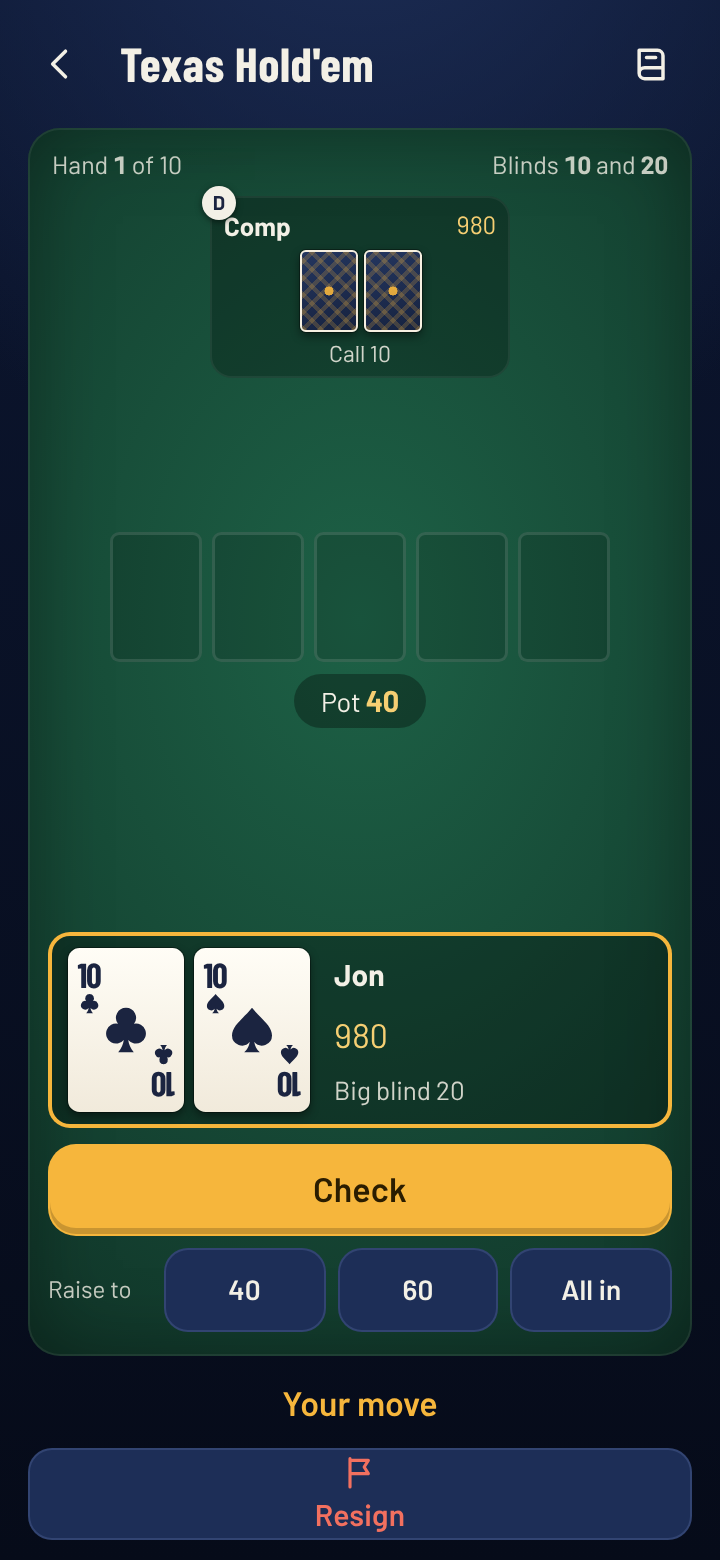
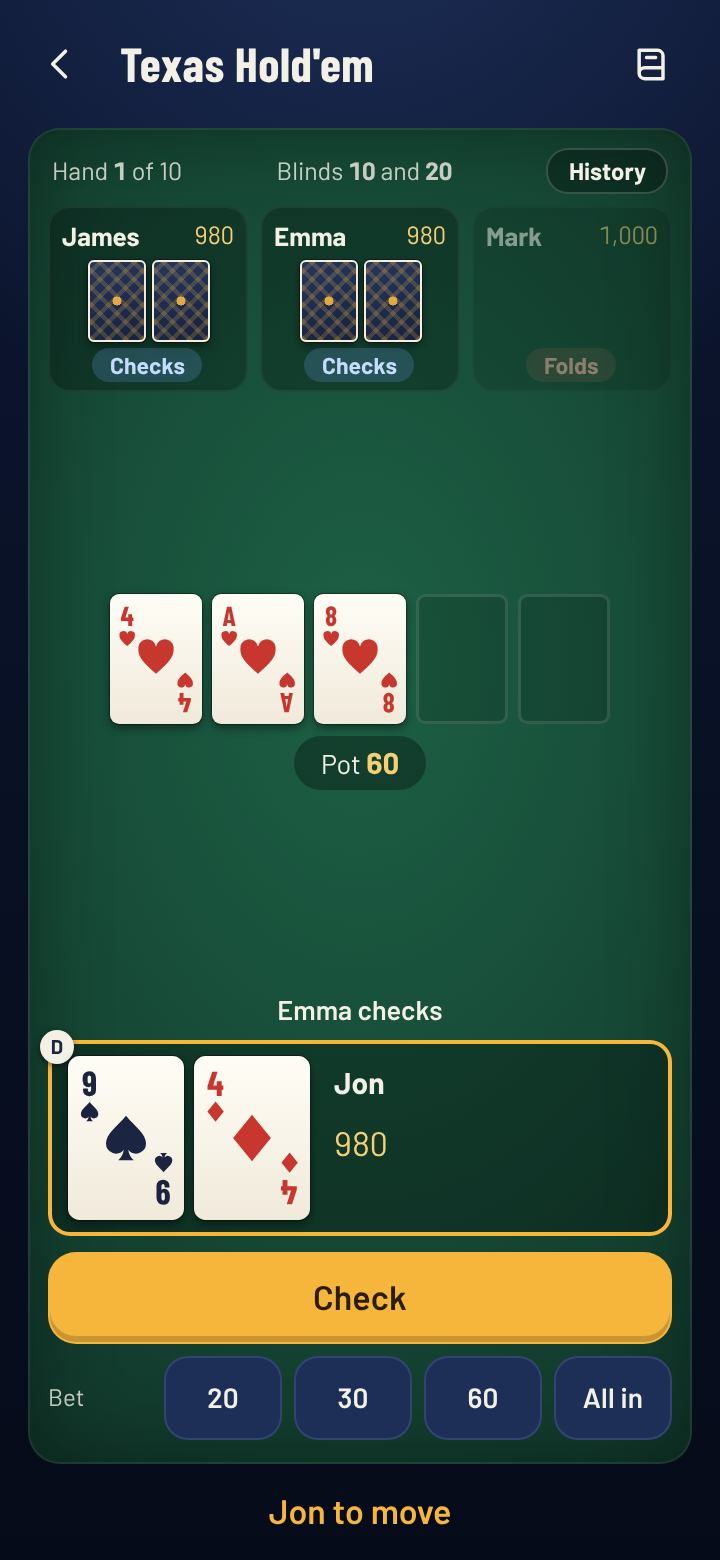
Plane Games 1.2: release notes, home page and new app pictures

diff --git a/index.html b/index.html
@@ -28,8 +28,8 @@
 <link rel="stylesheet" href="./assets/house.css?v=1">
 <link rel="stylesheet" href="./assets/apps-list.css?v=1">
 <script src="./assets/apps-list.js?v=1" defer></script>
-<script type="application/ld+json">{"@context":"https://schema.org","@type":"SoftwareApplication","name":"Plane Games","url":"https://customgpter.github.io/plane-games/","description":"Plane Games is a free Android app with twenty-six games for up to four phones or one, made to work with no internet. Pool, chess, poker, ludo, battleships and more. No adverts.","applicationCategory":"GameApplication","operatingSystem":"Android 8 or later","softwareVersion":"1.1","downloadUrl":"https://github.com/CustomGPTer/plane-games/releases/latest/download/PlaneGames.apk","releaseNotes":"https://customgpter.github.io/plane-games/releases.html","offers":{"@type":"Offer","price":"0","priceCurrency":"GBP"},"inLanguage":"en-GB","image":"https://customgpter.github.io/plane-games/assets/og.png","featureList":["Twenty-six of them","Up to four phones","One phone too","Private cards","No cheating","Head starts and clocks","Tallies","Replays","Continue later","Flight mode","Send the app","Backup"],"author":{"@type":"Person","name":"Jonathan Jackson"}}</script>
-<script type="application/ld+json">{"@context":"https://schema.org","@type":"FAQPage","mainEntity":[{"@type":"Question","name":"Does it really work with no internet?","acceptedAnswer":{"@type":"Answer","text":"Yes. Every game is inside the app. Two phones link straight to each other by Bluetooth and Wi-Fi, without a router, a hotspot or mobile data. The only time the app uses the internet is to look for a newer version, and it carries on quietly if there is none."}},{"@type":"Question","name":"Does it work in flight mode?","acceptedAnswer":{"@type":"Answer","text":"Yes. Switch flight mode on, then switch Bluetooth back on, and Wi-Fi as well if your phone lets you. The link screen shows what is switched off and has a button for each. Games against the computer, games on one phone and the one-player games need nothing switched on at all. Always follow the cabin crew's instructions about phones."}},{"@type":"Question","name":"Do both of us need the app?","acceptedAnswer":{"@type":"Answer","text":"To play on two phones, yes. If the other person does not have it, open Invite in the app and choose Send the app: it goes from your phone to theirs by Quick Share or Bluetooth, with no internet. You can also play on one phone, passing it between you."}},{"@type":"Question","name":"Can an iPhone join in?","acceptedAnswer":{"@type":"Answer","text":"No. Plane Games is for Android only, and two phones can link only if both run it. An iPhone owner can still play on your phone in pass-and-play."}},{"@type":"Question","name":"How do two phones link?","acceptedAnswer":{"@type":"Answer","text":"Both open Link phones. One taps Host and the other taps Join, then taps the host's name or scans the code on the host's screen. Both phones show the same short number; check it matches and tap Link. Phones that have linked before can skip the number check."}},{"@type":"Question","name":"Why does it ask for Nearby devices, or for Location?","acceptedAnswer":{"@type":"Answer","text":"Android will not let any app find a phone nearby without it. On Android 13 and later the permission is called Nearby devices. On Android 12 and older, Android also asks for Location and needs Location switched on while the phones find each other. Plane Games never reads where you are."}},{"@type":"Question","name":"How far apart can the phones be?","acceptedAnswer":{"@type":"Answer","text":"Keep them within a few seats of each other. Walls, seat backs and people in between shorten the range."}},{"@type":"Question","name":"Is the pool like the one I know?","acceptedAnswer":{"@type":"Answer","text":"It is 9-ball and 8-ball played by touch: drag to aim, set spin on the cue ball, pull the power bar back and let go. 8-ball can be played by UK pub rules, with two shots after a foul, or with ball in hand. The aiming line can be long, short or off."}},{"@type":"Question","name":"Is Plane Games on Google Play?","acceptedAnswer":{"@type":"Answer","text":"No. It is downloaded from this site as an app file. That is why Chrome and Play Protect ask you to confirm when you install it."}},{"@type":"Question","name":"How do I move my tallies to a new phone?","acceptedAnswer":{"@type":"Answer","text":"In Settings choose Save a backup file and send that file to the new phone. There, choose Bring back a backup and pick the file."}},{"@type":"Question","name":"How do I update?","acceptedAnswer":{"@type":"Answer","text":"When there is internet the app looks for a newer version about twice a day and says so on the home screen. Download the new file from this site and open it; it installs over the old one and keeps your tallies. Settings also has Check for a newer version, and a button that copies the link where every version is published."}},{"@type":"Question","name":"Is it really free?","acceptedAnswer":{"@type":"Answer","text":"Yes. There are no adverts, no purchases and no account."}}]}</script>
+<script type="application/ld+json">{"@context":"https://schema.org","@type":"SoftwareApplication","name":"Plane Games","url":"https://customgpter.github.io/plane-games/","description":"Plane Games is a free Android app with twenty-six games for up to four phones or one, made to work with no internet. Pool, chess, poker, ludo, battleships and more. No adverts.","applicationCategory":"GameApplication","operatingSystem":"Android 8 or later","softwareVersion":"1.2","downloadUrl":"https://github.com/CustomGPTer/plane-games/releases/latest/download/PlaneGames.apk","releaseNotes":"https://customgpter.github.io/plane-games/releases.html","offers":{"@type":"Offer","price":"0","priceCurrency":"GBP"},"inLanguage":"en-GB","image":"https://customgpter.github.io/plane-games/assets/og.png","featureList":["Twenty-six of them","Up to four phones","One phone too","Private cards","No cheating","Head starts and clocks","Tallies","Replays","Continue later","Flight mode","Send the app","Backup"],"author":{"@type":"Person","name":"Jonathan Jackson"}}</script>
+<script type="application/ld+json">{"@context":"https://schema.org","@type":"FAQPage","mainEntity":[{"@type":"Question","name":"Does it really work with no internet?","acceptedAnswer":{"@type":"Answer","text":"Yes. Every game is inside the app. Two phones link straight to each other by Bluetooth and Wi-Fi, without a router, a hotspot or mobile data. The only time the app uses the internet is to look for a newer version, and it carries on quietly if there is none."}},{"@type":"Question","name":"Does it work in flight mode?","acceptedAnswer":{"@type":"Answer","text":"Yes. Switch flight mode on, then switch Bluetooth back on, and Wi-Fi as well if your phone lets you. The link screen shows what is switched off and has a button for each. Games against the computer, games on one phone and the one-player games need nothing switched on at all. Always follow the cabin crew's instructions about phones."}},{"@type":"Question","name":"Do both of us need the app?","acceptedAnswer":{"@type":"Answer","text":"To play on two phones, yes. If the other person does not have it, open Invite in the app and choose Send the app: it goes from your phone to theirs by Quick Share or Bluetooth, with no internet. You can also play on one phone, passing it between you."}},{"@type":"Question","name":"Can an iPhone join in?","acceptedAnswer":{"@type":"Answer","text":"No. Plane Games is for Android only, and two phones can link only if both run it. An iPhone owner can still play on your phone in pass-and-play."}},{"@type":"Question","name":"How do two phones link?","acceptedAnswer":{"@type":"Answer","text":"Both open Link phones. One taps Host and the other taps Join, then taps the host's name or scans the code on the host's screen. Both phones show the same short number; check it matches and tap Link. Phones that have linked before can skip the number check."}},{"@type":"Question","name":"Why does it ask for Nearby devices, or for Location?","acceptedAnswer":{"@type":"Answer","text":"Android will not let any app find a phone nearby without it. On Android 13 and later the permission is called Nearby devices. On Android 12 and older, Android also asks for Location and needs Location switched on while the phones find each other. Plane Games never reads where you are."}},{"@type":"Question","name":"How far apart can the phones be?","acceptedAnswer":{"@type":"Answer","text":"Keep them within a few seats of each other. Walls, seat backs and people in between shorten the range."}},{"@type":"Question","name":"Is the pool like the one I know?","acceptedAnswer":{"@type":"Answer","text":"It is 9-ball and 8-ball played by touch: drag to aim, turn the wheel for fine aim, set spin on the cue ball, pull the power bar back and let go. A potted ball drops into the pocket and runs down a rail beside the table. 8-ball can be played by UK pub rules, with two shots after a foul, or with ball in hand. The aiming line can be long, short or off."}},{"@type":"Question","name":"Is Plane Games on Google Play?","acceptedAnswer":{"@type":"Answer","text":"No. It is downloaded from this site as an app file. That is why Chrome and Play Protect ask you to confirm when you install it."}},{"@type":"Question","name":"How do I move my tallies to a new phone?","acceptedAnswer":{"@type":"Answer","text":"In Settings choose Save a backup file and send that file to the new phone. There, choose Bring back a backup and pick the file."}},{"@type":"Question","name":"How do I update?","acceptedAnswer":{"@type":"Answer","text":"When there is internet the app looks for a newer version about twice a day and says so on the home screen. Download the new file from this site and open it; it installs over the old one and keeps your tallies. Settings also has Check for a newer version, and a button that copies the link where every version is published."}},{"@type":"Question","name":"Is it really free?","acceptedAnswer":{"@type":"Answer","text":"Yes. There are no adverts, no purchases and no account."}}]}</script>
 </head>
 <body>
 <a class="skip" href="#main">Skip to content</a>
@@ -48,7 +48,7 @@
 <p class="lede">Plane Games links up to four phones straight to each other by Bluetooth and Wi-Fi, with no internet, no router and no mobile data. Made for flights, trains and anywhere the signal gives up.</p><p class="lede">Play chess, pool, poker, ludo and more against each other, pass one phone round, or take on the computer.</p>
 
 <p class="get" id="download"><a class="button" href="https://github.com/CustomGPTer/plane-games/releases/latest/download/PlaneGames.apk"><svg class="ico" viewBox="0 0 24 24" aria-hidden="true"><path d="M12 4v11"/><path d="M7 10.5l5 5 5-5"/><path d="M5 20h14"/></svg>Download for Android</a><a class="aside" href="#install">How to install</a></p>
-<ul class="pills"><li>Version 1.1</li><li>Android 8 or later</li><li>4.9 MB</li></ul>
+<ul class="pills"><li>Version 1.2</li><li>Android 8 or later</li><li>4.9 MB</li></ul>
 <p class="facts">Free, with nothing to unlock. No adverts, no account with the developer, no tracking. <a href="compare.html">Compare</a> or read the <a href="releases.html">release notes</a>.</p>
 <p class="facts">Chrome may say the file might be harmful. It shows this for app files that do not come from Google Play. Choose Download anyway.</p>
 </div>
@@ -80,7 +80,7 @@
 <div class="wrap">
 <h2 id="features-h">Everything is in, and all of it is free</h2>
 <p class="intro">Nothing below is held back for a paid tier, because there is no paid tier.</p>
-<div class="groups"><div class="group"><h3>The games</h3><dl><div><dt>Twenty-six of them</dt><dd><b>Board:</b> chess, draughts, backgammon, dominoes, battleships, Connect 4, reversi, noughts and crosses, ludo, snakes and ladders, dots and boxes. <b>Cards:</b> Texas Hold'em, three card brag, snap, pontoon, solitaire, FreeCell and spider. <b>Arcade:</b> 9-ball and 8-ball pool. <b>Puzzles:</b> sudoku, minesweeper, 2048, hangman, code breaker and 120 chess puzzles.</dd></div><div><dt>Up to four phones</dt><dd>Ludo, snakes and ladders, dots and boxes, dominoes, Hold'em and brag on up to four phones, two to six seats.</dd></div><div><dt>One phone too</dt><dd>Pass and play on one phone, or play the computer at five levels.</dd></div></dl></div><div class="group"><h3>Fair play</h3><dl><div><dt>Private cards</dt><dd>Your hand and your tiles show only on your phone.</dd></div><div><dt>No cheating</dt><dd>Dice and shuffles are made by every phone together, and fleets and words are checked at the end.</dd></div><div><dt>Head starts and clocks</dt><dd>Give a weaker player a head start, or play against the clock.</dd></div></dl></div><div class="group"><h3>Keeping score</h3><dl><div><dt>Tallies</dt><dd>Won, lost and drawn, for each person you play.</dd></div><div><dt>Replays</dt><dd>Watch the last forty games back, move by move.</dd></div><div><dt>Continue later</dt><dd>A part-played game waits for you, on every phone.</dd></div></dl></div><div class="group"><h3>Made for travel</h3><dl><div><dt>Flight mode</dt><dd>Switch flight mode on, then Bluetooth back on, and you can still play.</dd></div><div><dt>Send the app</dt><dd>Pass the app itself to a friend's phone, phone to phone.</dd></div><div><dt>Backup</dt><dd>Save a file with your tallies and bring it back on a new phone.</dd></div></dl></div></div>
+<div class="groups"><div class="group"><h3>The games</h3><dl><div><dt>Twenty-six of them</dt><dd><b>Board:</b> chess, draughts, backgammon, dominoes, battleships, Connect 4, reversi, noughts and crosses, ludo, snakes and ladders, dots and boxes. <b>Cards:</b> Texas Hold'em, three card brag, snap, pontoon, solitaire, FreeCell and spider. <b>Arcade:</b> 9-ball and 8-ball pool. <b>Puzzles:</b> sudoku, minesweeper, 2048, hangman, code breaker and 120 chess puzzles.</dd></div><div><dt>Up to four phones</dt><dd>Ludo, snakes and ladders, dots and boxes, dominoes, Hold'em and brag on up to four phones, two to six seats.</dd></div><div><dt>One phone too</dt><dd>Pass and play on one phone, or play the computer at five levels, each with its own named players.</dd></div></dl></div><div class="group"><h3>Fair play</h3><dl><div><dt>Private cards</dt><dd>Your hand and your tiles show only on your phone.</dd></div><div><dt>No cheating</dt><dd>Dice and shuffles are made by every phone together, and fleets and words are checked at the end.</dd></div><div><dt>Head starts and clocks</dt><dd>Give a weaker player a head start, or play against the clock.</dd></div></dl></div><div class="group"><h3>Keeping score</h3><dl><div><dt>Tallies</dt><dd>Won, lost and drawn, for each person you play.</dd></div><div><dt>Replays</dt><dd>Watch the last forty games back, move by move.</dd></div><div><dt>Continue later</dt><dd>A part-played game waits for you, on every phone.</dd></div></dl></div><div class="group"><h3>Made for travel</h3><dl><div><dt>Flight mode</dt><dd>Switch flight mode on, then Bluetooth back on, and you can still play.</dd></div><div><dt>Send the app</dt><dd>Pass the app itself to a friend's phone, phone to phone.</dd></div><div><dt>Backup</dt><dd>Save a file with your tallies and bring it back on a new phone.</dd></div></dl></div></div>
 </div>
 </section>
 
@@ -96,14 +96,14 @@
 <h2 id="install-h">Installing and updating</h2>
 <p class="intro">Plane Games is not on Google Play, so your phone asks a couple of extra questions the first time.</p>
 <ol class="steps"><li><h3>Download the app file</h3><p>Tap Download on your phone. The file is called PlaneGames.apk and is about 4.9 MB. If Chrome says the file might be harmful, choose Download anyway.</p></li><li><h3>Allow the install</h3><p>Open the file. The first time, Android asks you to allow your browser to install apps. Allow it, go back and tap Install. If Google Play Protect steps in, choose More details, then Install anyway.</p></li><li><h3>Updating later</h3><p>Plane Games tells you when a newer version is out. Install the new file over the old one and everything you have saved is kept.</p></li></ol>
-<p class="after-table">Version 1.1, released 21 November 2026. See the <a href="releases.html">release notes</a>, or <a href="releases.html#checking">check your download</a>.</p>
+<p class="after-table">Version 1.2, released 22 November 2026. See the <a href="releases.html">release notes</a>, or <a href="releases.html#checking">check your download</a>.</p>
 </div>
 </section>
 
 <section id="questions" aria-labelledby="questions-h">
 <div class="wrap">
 <h2 id="questions-h">Questions</h2>
-<div class="faq"><details><summary>Does it really work with no internet?</summary><p>Yes. Every game is inside the app. Two phones link straight to each other by Bluetooth and Wi-Fi, without a router, a hotspot or mobile data. The only time the app uses the internet is to look for a newer version, and it carries on quietly if there is none.</p></details><details><summary>Does it work in flight mode?</summary><p>Yes. Switch flight mode on, then switch Bluetooth back on, and Wi-Fi as well if your phone lets you. The link screen shows what is switched off and has a button for each. Games against the computer, games on one phone and the one-player games need nothing switched on at all. Always follow the cabin crew's instructions about phones.</p></details><details><summary>Do both of us need the app?</summary><p>To play on two phones, yes. If the other person does not have it, open Invite in the app and choose Send the app: it goes from your phone to theirs by Quick Share or Bluetooth, with no internet. You can also play on one phone, passing it between you.</p></details><details><summary>Can an iPhone join in?</summary><p>No. Plane Games is for Android only, and two phones can link only if both run it. An iPhone owner can still play on your phone in pass-and-play.</p></details><details><summary>How do two phones link?</summary><p>Both open Link phones. One taps Host and the other taps Join, then taps the host's name or scans the code on the host's screen. Both phones show the same short number; check it matches and tap Link. Phones that have linked before can skip the number check.</p></details><details><summary>Why does it ask for Nearby devices, or for Location?</summary><p>Android will not let any app find a phone nearby without it. On Android 13 and later the permission is called Nearby devices. On Android 12 and older, Android also asks for Location and needs Location switched on while the phones find each other. Plane Games never reads where you are.</p></details><details><summary>How far apart can the phones be?</summary><p>Keep them within a few seats of each other. Walls, seat backs and people in between shorten the range.</p></details><details><summary>Is the pool like the one I know?</summary><p>It is 9-ball and 8-ball played by touch: drag to aim, set spin on the cue ball, pull the power bar back and let go. 8-ball can be played by UK pub rules, with two shots after a foul, or with ball in hand. The aiming line can be long, short or off.</p></details><details><summary>Is Plane Games on Google Play?</summary><p>No. It is downloaded from this site as an app file. That is why Chrome and Play Protect ask you to confirm when you install it.</p></details><details><summary>How do I move my tallies to a new phone?</summary><p>In Settings choose Save a backup file and send that file to the new phone. There, choose Bring back a backup and pick the file.</p></details><details><summary>How do I update?</summary><p>When there is internet the app looks for a newer version about twice a day and says so on the home screen. Download the new file from this site and open it; it installs over the old one and keeps your tallies. Settings also has Check for a newer version, and a button that copies the link where every version is published.</p></details><details><summary>Is it really free?</summary><p>Yes. There are no adverts, no purchases and no account.</p></details></div>
+<div class="faq"><details><summary>Does it really work with no internet?</summary><p>Yes. Every game is inside the app. Two phones link straight to each other by Bluetooth and Wi-Fi, without a router, a hotspot or mobile data. The only time the app uses the internet is to look for a newer version, and it carries on quietly if there is none.</p></details><details><summary>Does it work in flight mode?</summary><p>Yes. Switch flight mode on, then switch Bluetooth back on, and Wi-Fi as well if your phone lets you. The link screen shows what is switched off and has a button for each. Games against the computer, games on one phone and the one-player games need nothing switched on at all. Always follow the cabin crew's instructions about phones.</p></details><details><summary>Do both of us need the app?</summary><p>To play on two phones, yes. If the other person does not have it, open Invite in the app and choose Send the app: it goes from your phone to theirs by Quick Share or Bluetooth, with no internet. You can also play on one phone, passing it between you.</p></details><details><summary>Can an iPhone join in?</summary><p>No. Plane Games is for Android only, and two phones can link only if both run it. An iPhone owner can still play on your phone in pass-and-play.</p></details><details><summary>How do two phones link?</summary><p>Both open Link phones. One taps Host and the other taps Join, then taps the host's name or scans the code on the host's screen. Both phones show the same short number; check it matches and tap Link. Phones that have linked before can skip the number check.</p></details><details><summary>Why does it ask for Nearby devices, or for Location?</summary><p>Android will not let any app find a phone nearby without it. On Android 13 and later the permission is called Nearby devices. On Android 12 and older, Android also asks for Location and needs Location switched on while the phones find each other. Plane Games never reads where you are.</p></details><details><summary>How far apart can the phones be?</summary><p>Keep them within a few seats of each other. Walls, seat backs and people in between shorten the range.</p></details><details><summary>Is the pool like the one I know?</summary><p>It is 9-ball and 8-ball played by touch: drag to aim, turn the wheel for fine aim, set spin on the cue ball, pull the power bar back and let go. A potted ball drops into the pocket and runs down a rail beside the table. 8-ball can be played by UK pub rules, with two shots after a foul, or with ball in hand. The aiming line can be long, short or off.</p></details><details><summary>Is Plane Games on Google Play?</summary><p>No. It is downloaded from this site as an app file. That is why Chrome and Play Protect ask you to confirm when you install it.</p></details><details><summary>How do I move my tallies to a new phone?</summary><p>In Settings choose Save a backup file and send that file to the new phone. There, choose Bring back a backup and pick the file.</p></details><details><summary>How do I update?</summary><p>When there is internet the app looks for a newer version about twice a day and says so on the home screen. Download the new file from this site and open it; it installs over the old one and keeps your tallies. Settings also has Check for a newer version, and a button that copies the link where every version is published.</p></details><details><summary>Is it really free?</summary><p>Yes. There are no adverts, no purchases and no account.</p></details></div>
 </div>
 </section>
 

diff --git a/releases.html b/releases.html
@@ -43,11 +43,12 @@
 <div class="measure">
 <h1>Release notes</h1>
 <p class="lede">What changed in each version of Plane Games. The newest is at the top.</p>
-<section class="release" id="v1.1"><h2><span class="ver">Version 1.1</span> <span class="when">21 November 2026</span><span class="tag">Latest</span></h2><ul><li>Six new games, twenty-six in all: Texas Hold'em and three card brag (two to six seats), Snap, Code breaker, Pontoon and 120 chess puzzles.</li><li>Up to four phones on one link, with computer players to fill seats, for ludo, snakes and ladders, dots and boxes, dominoes, Texas Hold'em and three card brag.</li><li>Private cards and tiles between linked phones.</li><li>Settings for computer speed and effects.</li><li>The home screen is in tabs (Board, Cards, Arcade, Puzzles) with Favourites and Recent. Part-played games can be continued or removed.</li><li>The computer's move is lit on the board, with a line saying what happened and a Show again button.</li><li>Battleships explosions, tumbling dice, moving pieces in every game and win celebrations.</li><li>The About screen now links to the website's licences page.</li></ul></section>
+<section class="release" id="v1.2"><h2><span class="ver">Version 1.2</span> <span class="when">22 November 2026</span><span class="tag">Latest</span></h2><ul><li>Pool has a new table: polished wood rails, lit cloth and leather pockets. A potted ball drops over the lip of the pocket and runs down a rail at the side, where the balls stack in the order they went in.</li><li>Pool has a new cue that draws back and follows through, a power bar, a wheel for fine aim and a bigger ball for setting spin. The top of the screen shows the balls each player still needs.</li><li>Computer players have names that go with their level: Alfie at Beginner, David at Easy, James at Medium, Victoria at Hard and Arthur at Expert, with four more at each level for bigger tables. Your tallies carry over.</li><li>Texas Hold'em and three card brag say what each player did in the words used at the table. In Hold'em: posts the blind, checks, calls, bets, raises, folds, goes all in, with the flop, the turn and the river named and a showdown that says who shows what. In brag: bets blind, looks, raises, pays to see. A History button lists the hand so far.</li><li>Pontoon says each card the bank twists and what it makes.</li><li>A new result screen in every game, with the winner's picture crowned. At the card tables the winning cards light up, the chips slide to the winner and a banner says who won what and with which hand, such as “David wins 240 with a full house”.</li><li>Installs over 1.1 and keeps your games, tallies and settings.</li></ul></section>
+<section class="release" id="v1.1"><h2><span class="ver">Version 1.1</span> <span class="when">21 November 2026</span></h2><ul><li>Six new games, twenty-six in all: Texas Hold'em and three card brag (two to six seats), Snap, Code breaker, Pontoon and 120 chess puzzles.</li><li>Up to four phones on one link, with computer players to fill seats, for ludo, snakes and ladders, dots and boxes, dominoes, Texas Hold'em and three card brag.</li><li>Private cards and tiles between linked phones.</li><li>Settings for computer speed and effects.</li><li>The home screen is in tabs (Board, Cards, Arcade, Puzzles) with Favourites and Recent. Part-played games can be continued or removed.</li><li>The computer's move is lit on the board, with a line saying what happened and a Show again button.</li><li>Battleships explosions, tumbling dice, moving pieces in every game and win celebrations.</li><li>The About screen now links to the website's licences page.</li></ul></section>
 <section class="release" id="v1.0"><h2><span class="ver">Version 1.0</span> <span class="when">19 November 2026</span></h2><ul><li>Fourteen games for two: 9-ball pool, 8-ball pool, chess, draughts, backgammon, dominoes, battleships, Connect 4, reversi, ludo, snakes and ladders, dots and boxes, hangman, and noughts and crosses.</li><li>Six games to play alone: solitaire, FreeCell, Spider, minesweeper, sudoku and 2048.</li><li>Three ways to play: two linked phones, one phone passed between you, or against the computer at five levels. Ludo, snakes and ladders, dominoes and dots and boxes take up to four players on one phone.</li><li>Linking two Android phones with no internet, in flight mode or out of it, by tapping a name or scanning a code, with a number check the first time.</li><li>A game that is saved on both phones and carries on from the same move after the link drops or a phone is put away.</li><li>Dice rolls and shuffles made by both phones together over the link, and battleship fleets and hangman words locked in before play starts.</li><li>Pool played by touch, with spin, a power bar, ball in hand, three aiming-line lengths, upright or sideways, and a left-handed layout. 8-ball by UK pub rules or with ball in hand.</li><li>Chess with the Stockfish engine, hints, undo, and a head start of a pawn, knight, rook or queen. Draughts by English or international rules, with a head start of one or two men.</li><li>Clocks of five, ten or thirty minutes each for chess and draughts.</li><li>Tallies against each person and each computer level, by game, with recent results, and personal bests for the games played alone.</li><li>The Flight Cup: a contest with one person over any games, first to three, five or seven wins.</li><li>Replays of the last forty finished games.</li><li>More than one player on a phone, each with their own name, badge and tallies.</li><li>A sudoku puzzle book of 240 numbered puzzles, and solitaire deals that can always be won.</li><li>Sending the app to another phone by Quick Share or Bluetooth, and a code that opens the download page.</li><li>Night, cabin and day colours, three board finishes, sounds off by default with vibration, short preset messages between linked phones, a battery saver, and a layout for tablets.</li><li>A backup file for every player's tallies and cups, to keep or to move to another phone.</li><li>How-to-play cards for every game, and a notice when a newer version is ready.</li><li>Android only, and two phones at most on one link.</li><li>Linking needs Google Play services on both phones. Without it the app still plays on one phone, against the computer and alone.</li><li>On Android 12 and older, Location must be switched on while the phones find each other.</li><li>Clocks are for chess and draughts only. Other games are not timed.</li><li>Pool has no shot clock and does not ask you to call a pocket.</li><li>Hints are given in chess, draughts, backgammon, Connect 4, reversi, dots and boxes, and noughts and crosses, and only against the computer or on one phone.</li></ul></section>
 <h2 id="checking">Checking your download</h2>
-<p>The file for version 1.1 is called <code>PlaneGames.apk</code>. It is 4.9 MB (4,864,732 bytes). Its SHA-256 checksum is:</p>
-<p><code class="sum">02d77b282b8722318e11782a1fadeeb42e10b9e68f90e45f8a1abfd1adad4fff</code></p>
+<p>The file for version 1.2 is called <code>PlaneGames.apk</code>. It is 4.9 MB (4,877,480 bytes). Its SHA-256 checksum is:</p>
+<p><code class="sum">caf6815d95ce85443509223802cc821047e7b99e73e390ea08482eb5b88b964f</code></p>
 <p>On Windows, run <code>certutil -hashfile PlaneGames.apk SHA256</code> and compare. Every version is signed with the same key, so each one installs over the last and keeps what you have saved.</p>
 <p>Older versions are on the <a href="https://github.com/CustomGPTer/plane-games/releases">GitHub releases page</a>.</p>
 </div>
